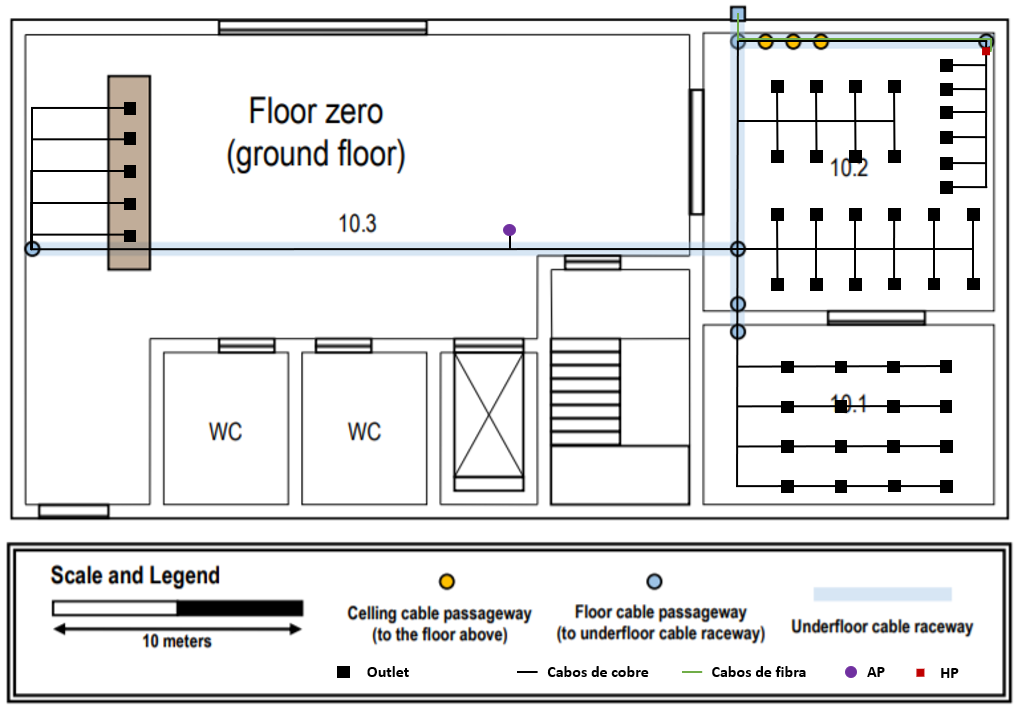
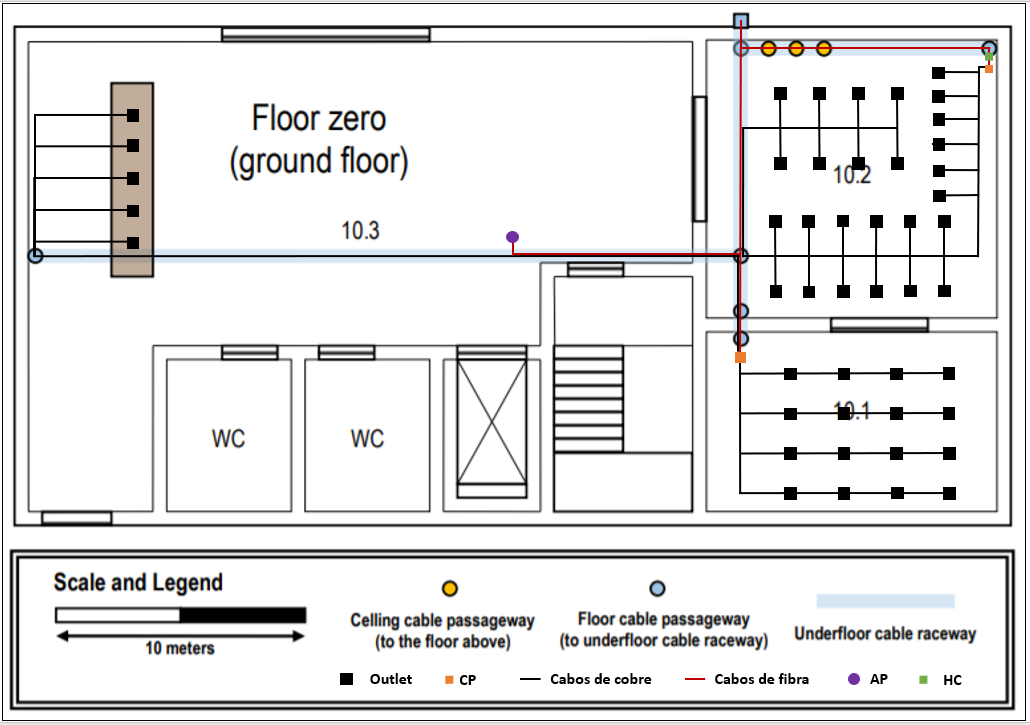
Alteração dos esquemas do edifício, inventório e justificações.

diff --git a/doc/sprint1/1190429/README.md b/doc/sprint1/1190429/README.md
@@ -1,14 +1,23 @@
 RCOMP 2019-2020 Project - Sprint 1 - Member 1190429 folder
 ===========================================
 
-#### This is just an example for a team member with number 1111111 ####
-### Each member should create a folder similar to this, matching his/her number. ###
-
 # Campus #
 ![Campus](Campus.png)
 
 A ligação entre os diferentes edifícios é feita a partir do edifício 1 que tem o MC, distribuindo a rede para os restantes edifícios.
+De forma a ser possível alcançar a redundância de cabos foram estabelecidas as seguintes ligações entre os edifícios:
+* Edifício 1 para 2, onde o total de cabo corresponde a 43,08 metros.
+* Edifício 1 para 3, onde o total de cabo corresponde a 193,08 metros.
+* Edifício 1 para 4, onde o total de cabo corresponde a 343,08 metros.
+* Edifício 1 para 5, onde o total de cabo corresponde a 266,92 metros.
+* Edifício 2 para 5, onde o total de cabo corresponde a 230,00 metros.
+* Edifício 4 para 5, onde o total de cabo corresponde a 167,69 metros.
+* Edifício 1 para 5, onde o total de cabo corresponde a 193,08 metros.
 
+Ligação para o edifício 1 tem aproximadamente 83,08 metros, logo no total, o backbone do campus tem cerca de 1520,00 metros. 
+As ligações anteriormente referidas são de fibra ótica monomodo, uma vez que é imune à dispersão e, por isso, permite taxas de dados mais altas e especialmente comprimentos de cabo mais longos.
+
+Todas as medições tiveram em conta a escala representada na imagem. Consideramos que 20 metros correspondem a 1,30 metros.
 Nota: linha representada a azul diz respeito à cablagem dupla de fibra ótica.
 
 
@@ -18,10 +27,36 @@ Nota: linha representada a azul diz respeito à cablagem dupla de fibra ótica.
 #### Medidas ####
 
 | Sala | Comprimento (cm) | Largura (cm) | Comprimento Real (m) | Largura Real (m) | Área (m²) | Outlets |
-|----------|----------|----------|---------|---------|---------|----------|
+|:----------:|:----------:|:----------:|:---------:|:---------:|:---------:|:----------:|
 | 10.1 | 3,90 | 2,40 | 11,4706 | 7,059 | 80,971 | 16 |
 | 10.2 | 3,90 | 3,90 | 11,4706 | 11,4706 | 131,575 | 26 |
 | 10.3 |----------|----------|----------|----------|----------| 5 |
+
+Todas as medições tiveram em conta a escala representada na imagem. Consideramos que 10 metros correspondem a 3,40 metros.
+De forma a calcular o número de outlets por área, foi seguida a regra que refere que por 10 metros quadrados têm que existir 2 outlets em todas as salas deste piso.
+
+Na sala 10.1 como tem 80,971 m², serão necessários 16 outlets que foram distribuídos neste espaço tendo em conta que tem que existir sempre um outlet a menos de três metros de distância.
+Foi instalado neste espaço um CP devido ao número elevado de outlets, com formato de rack de 19'', um pach panel de 24 portas e um switch de 24 portas.
+
+Na sala 10.2 como tem 131,575 m², serão necessários 26 outlets que foram distribuídos neste espaço tendo em conta que tem que existir sempre um outlet a menos de três metros de distância. 
+Neste espaço, também foram colocados o HC que cobre a área total do piso, com formato de rack de 19'', um patch panel de 12 portas, sendo utilizadas 2 portas para o IC e as restantes para cada CP do piso e um switch de 12 portas.
+Para além do HC, foi instalado um CP devido ao número elevado de outlets, com formato de rack de 19'', um pach panel de 48 portas e um switch de 48 portas. 
+
+Na sala 10.3 tal como referia no enunciado foram colocados 5 outlets na mesa que foram distribuídos neste espaço tendo em conta que tem que existir sempre um outlet a menos de três metros de distância.
+Para além dos outlets, como podemos observar na imagem acima representada foi instalado um AP no centro deste piso de forma a que exista cobertura WiFi em toda a sua área.
+
+#### Inventário ####
+* 1 HC
+    * 1 Pach Panel de 12 portas
+    * 1 Switch de 12 portas
+* 2 CP
+    * 1 Pach Panel de 24 portas
+    * 1 Switch de 24 portas
+    * 1 Pach Panel de 48 portas
+    * 1 Switch de 48 portas
+* 1 AP
+* 47 Outlets
+* 717,66 metros de cabo CAT6A
 
 # Piso 1 #
 ![piso1.png](piso1.png)
@@ -29,9 +64,50 @@ Nota: linha representada a azul diz respeito à cablagem dupla de fibra ótica.
 #### Medidas ####
 
 | Sala | Comprimento (cm) | Largura (cm) | Comprimento Real (m) | Largura Real (m) | Área (m²) | Outlets |
-|----------|----------|----------|---------|---------|---------|----------|
+|:----------:|:----------:|:----------:|:---------:|:---------:|:---------:|:----------:|
 | 11.1 | 6,50| 4,00 | 19,118 | 11.765 | 224.923| 0 |
 | 11.2 | 2,70 | 1,90| 7.941 | 5.588 | 44,374 | 9 |
 | 11.3 | 4,00 | 2,50 |11,765 | 7.353 | 86,508 | 17 |
 | 11.4 | 4,00 | 3,80 | 11,765 | 11,176 | 131,486 | 26 |
 | 11.5 | 2,10 | 1,30 | 6,176 | 3,824 | 23,617 | 0 |
+
+Todas as medições tiveram em conta a escala representada na imagem. Consideramos que 10 metros correspondem a 3,40 metros.
+De forma a calcular o número de outlets por área, foi seguida a regra que refere que por 10 metros quadrados têm que existir 2 outlets em todas as salas deste piso.
+
+Tal como o enunciado refere a sala 11.1 é o datacenter do campus, logo foram instalados nesta sala um MC, um IC e um HC.
+O MC tem um formato de rack de 19'', um pach panel de 12 portas, sendo utilizadas 2 portas para cada IC de cada edifício e um switch de 12 portas.
+O IC tem um formato de rack de 19'', um pach panel de 8 portas, sendo utilizadas 2 portas para cada HC do edifício e para o MC e um switch de 8 portas.
+O HC tem um formato de rack de 19'', um pach panel de 12 portas, sendo utilizadas 2 portas para o IC e as restantes para cada CP do piso e um switch de 12 portas.
+
+Na sala 11.2 como tem 44,374 m², serão necessários 9 outlets que foram distribuídos neste espaço tendo em conta que tem que existir sempre um outlet a menos de três metros de distância.
+Foi instalado neste espaço um CP devido ao número elevado de outlets, com formato de rack de 19'', um pach panel de 24 portas e um switch de 24 portas.
+
+Na sala 11.3 como tem 86,508 m², serão necessários 17 outlets que foram distribuídos neste espaço tendo em conta que tem que existir sempre um outlet a menos de três metros de distância.
+Foi instalado neste espaço um CP devido ao número elevado de outlets, com formato de rack de 19'', um pach panel de 24 portas e um switch de 24 portas.
+
+Na sala 11.4 como tem 131,486 m², serão necessários 26 outlets que foram distribuídos neste espaço tendo em conta que tem que existir sempre um outlet a menos de três metros de distância.
+Foi instalado neste espaço um CP devido ao número elevado de outlets, com formato de rack de 19'', um pach panel de 48 portas e um switch de 48 portas.
+
+No centro deste piso foi colocado também um AP de forma a garantir a cobertura de WiFi em toda a sua área.
+
+#### Inventário ####
+* 1 MC
+    * 1 Pach Panel de 12 portas
+    * 1 Switch de 12 portas
+* 1 IC
+    * 1 Pach Panel de 8 portas
+    * 1 Switch de 8 portas
+* 1 HC
+    * 1 Pach Panel de 12 portas
+    * 1 Switch de 12 portas
+* 3 CP
+    * 3 Pach Panel de 24 portas
+    * 3 Switch de 24 portas
+* 1 AP
+* 52 Outlets
+* 384,48 metros de cabo CAT6A
+
+
+
+Nota: Toda a cablagem de fibra ótica refere-se à cablagem dupla de fibra ótica monomodo de modo a prevenir o sistema contra falhas de cabos.
+Os cabos de cobre usados são CAT6A.
